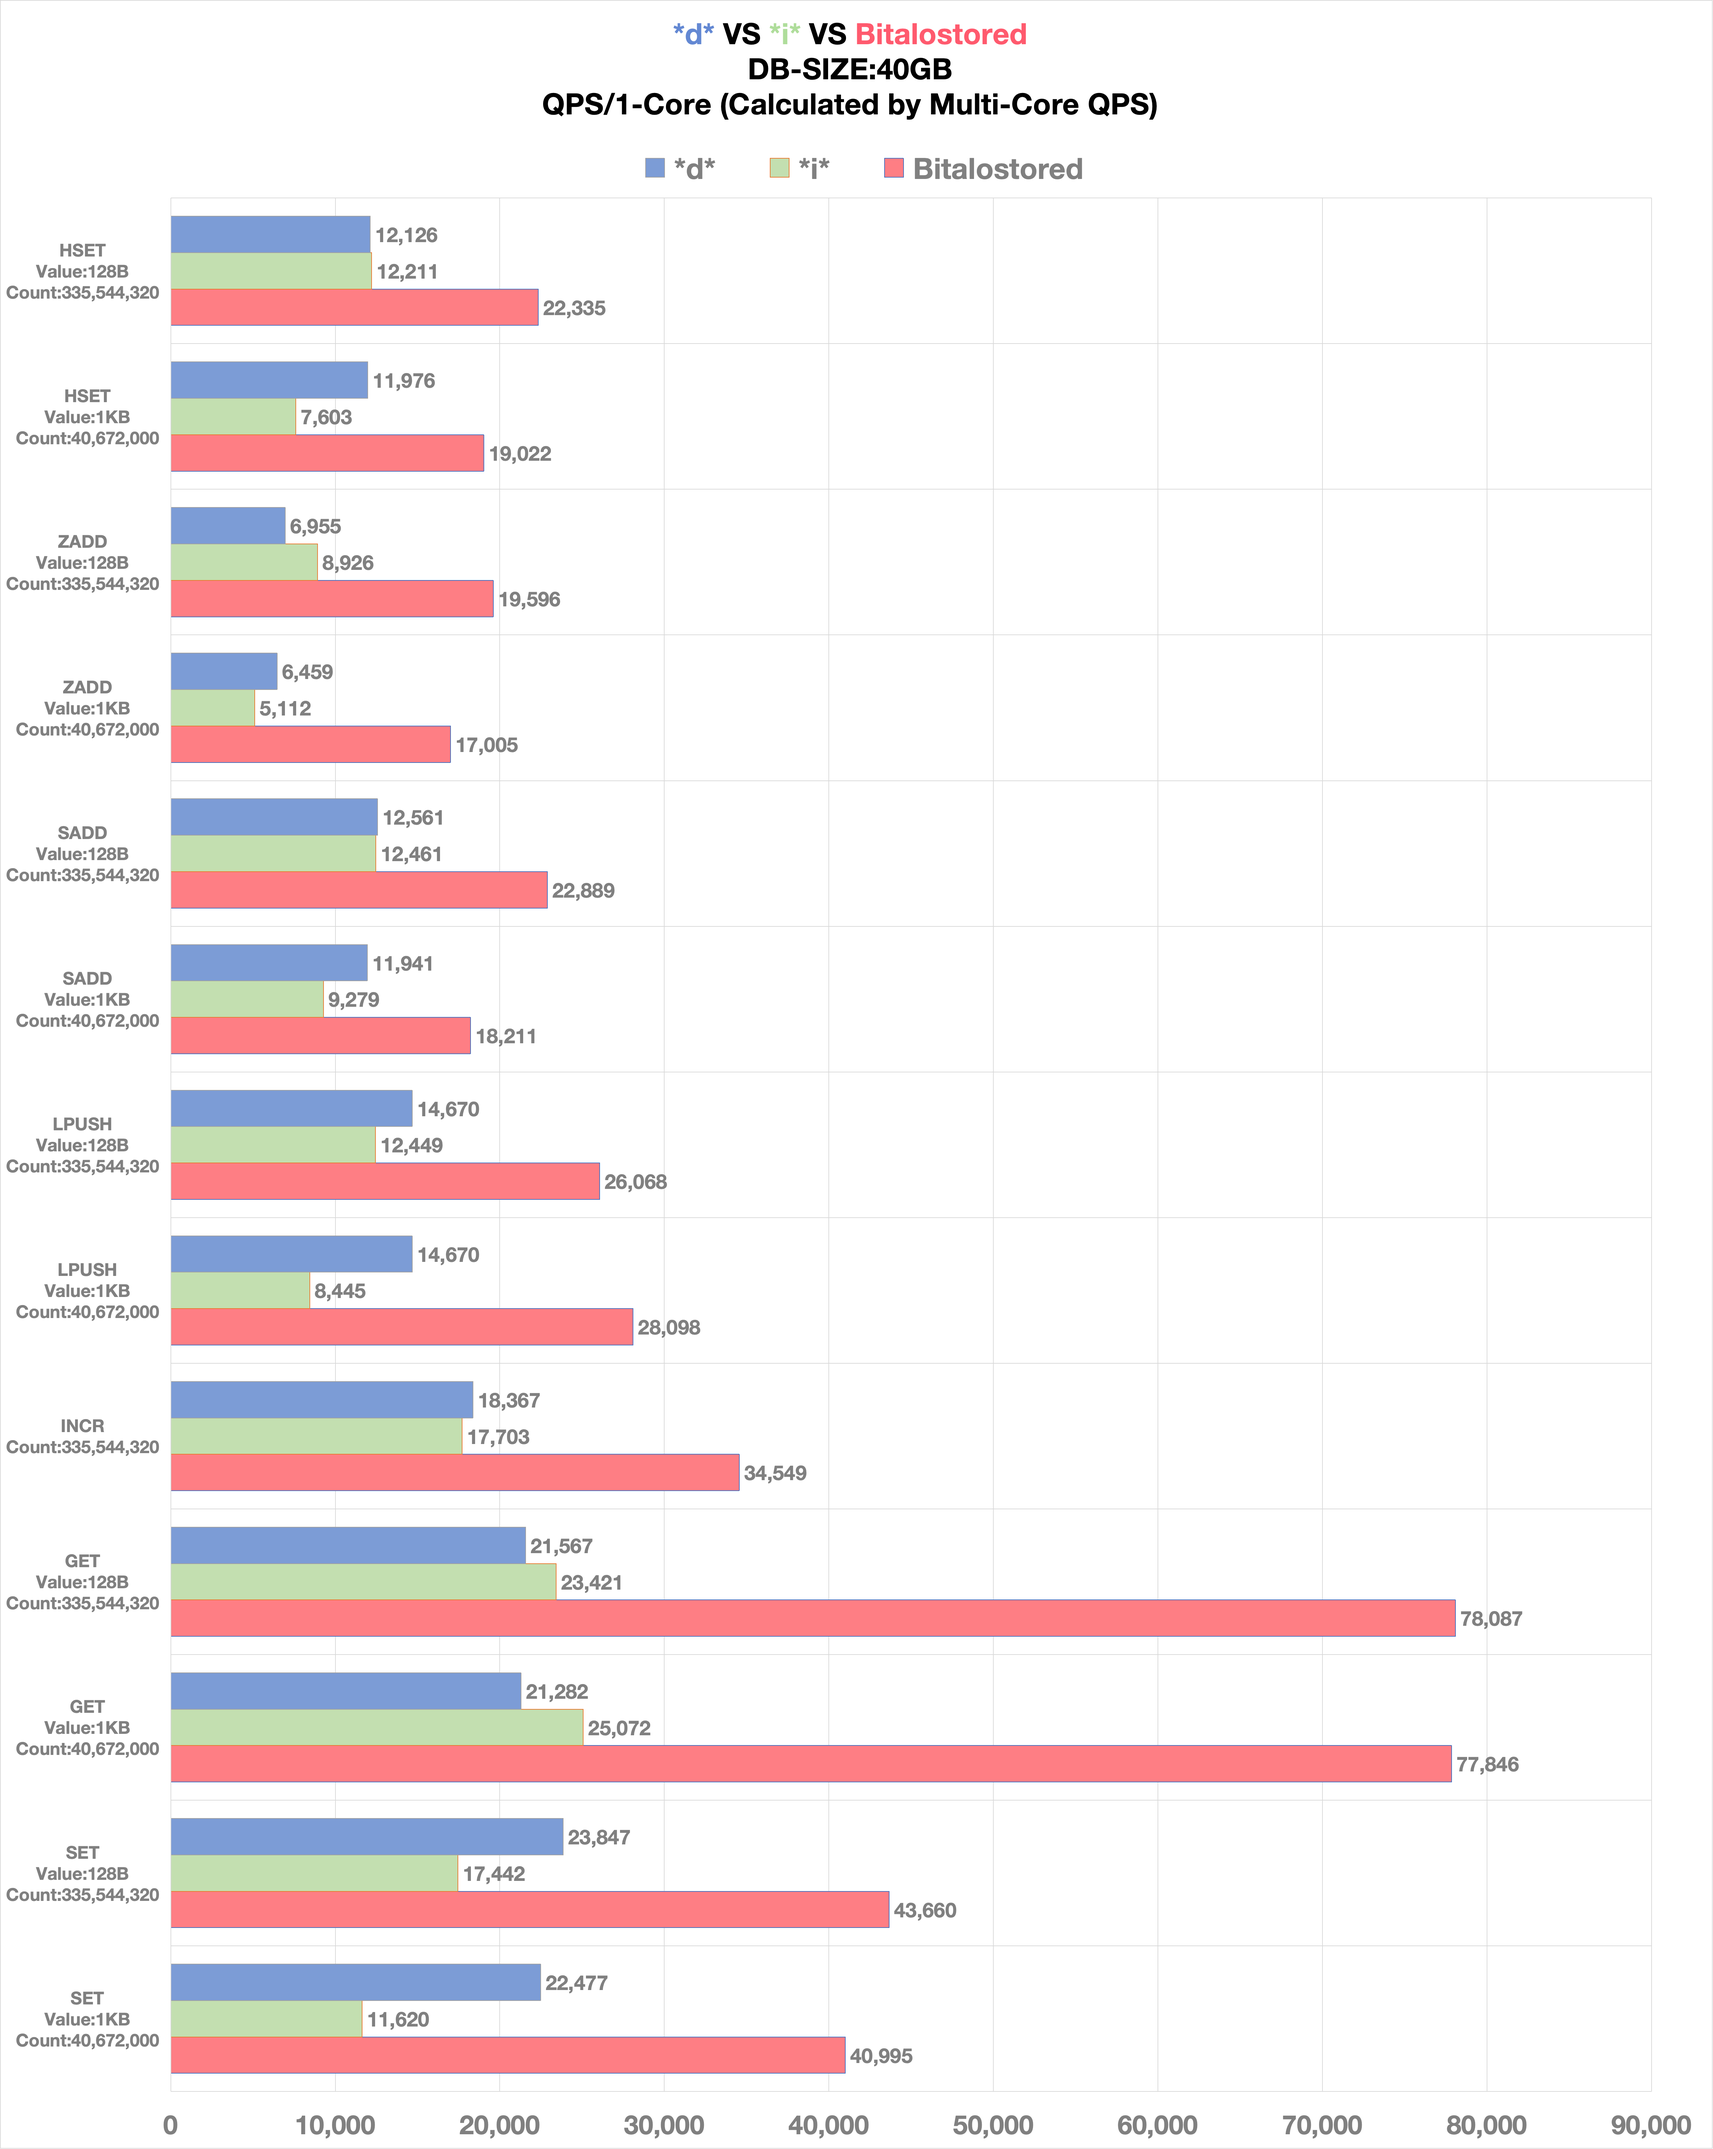
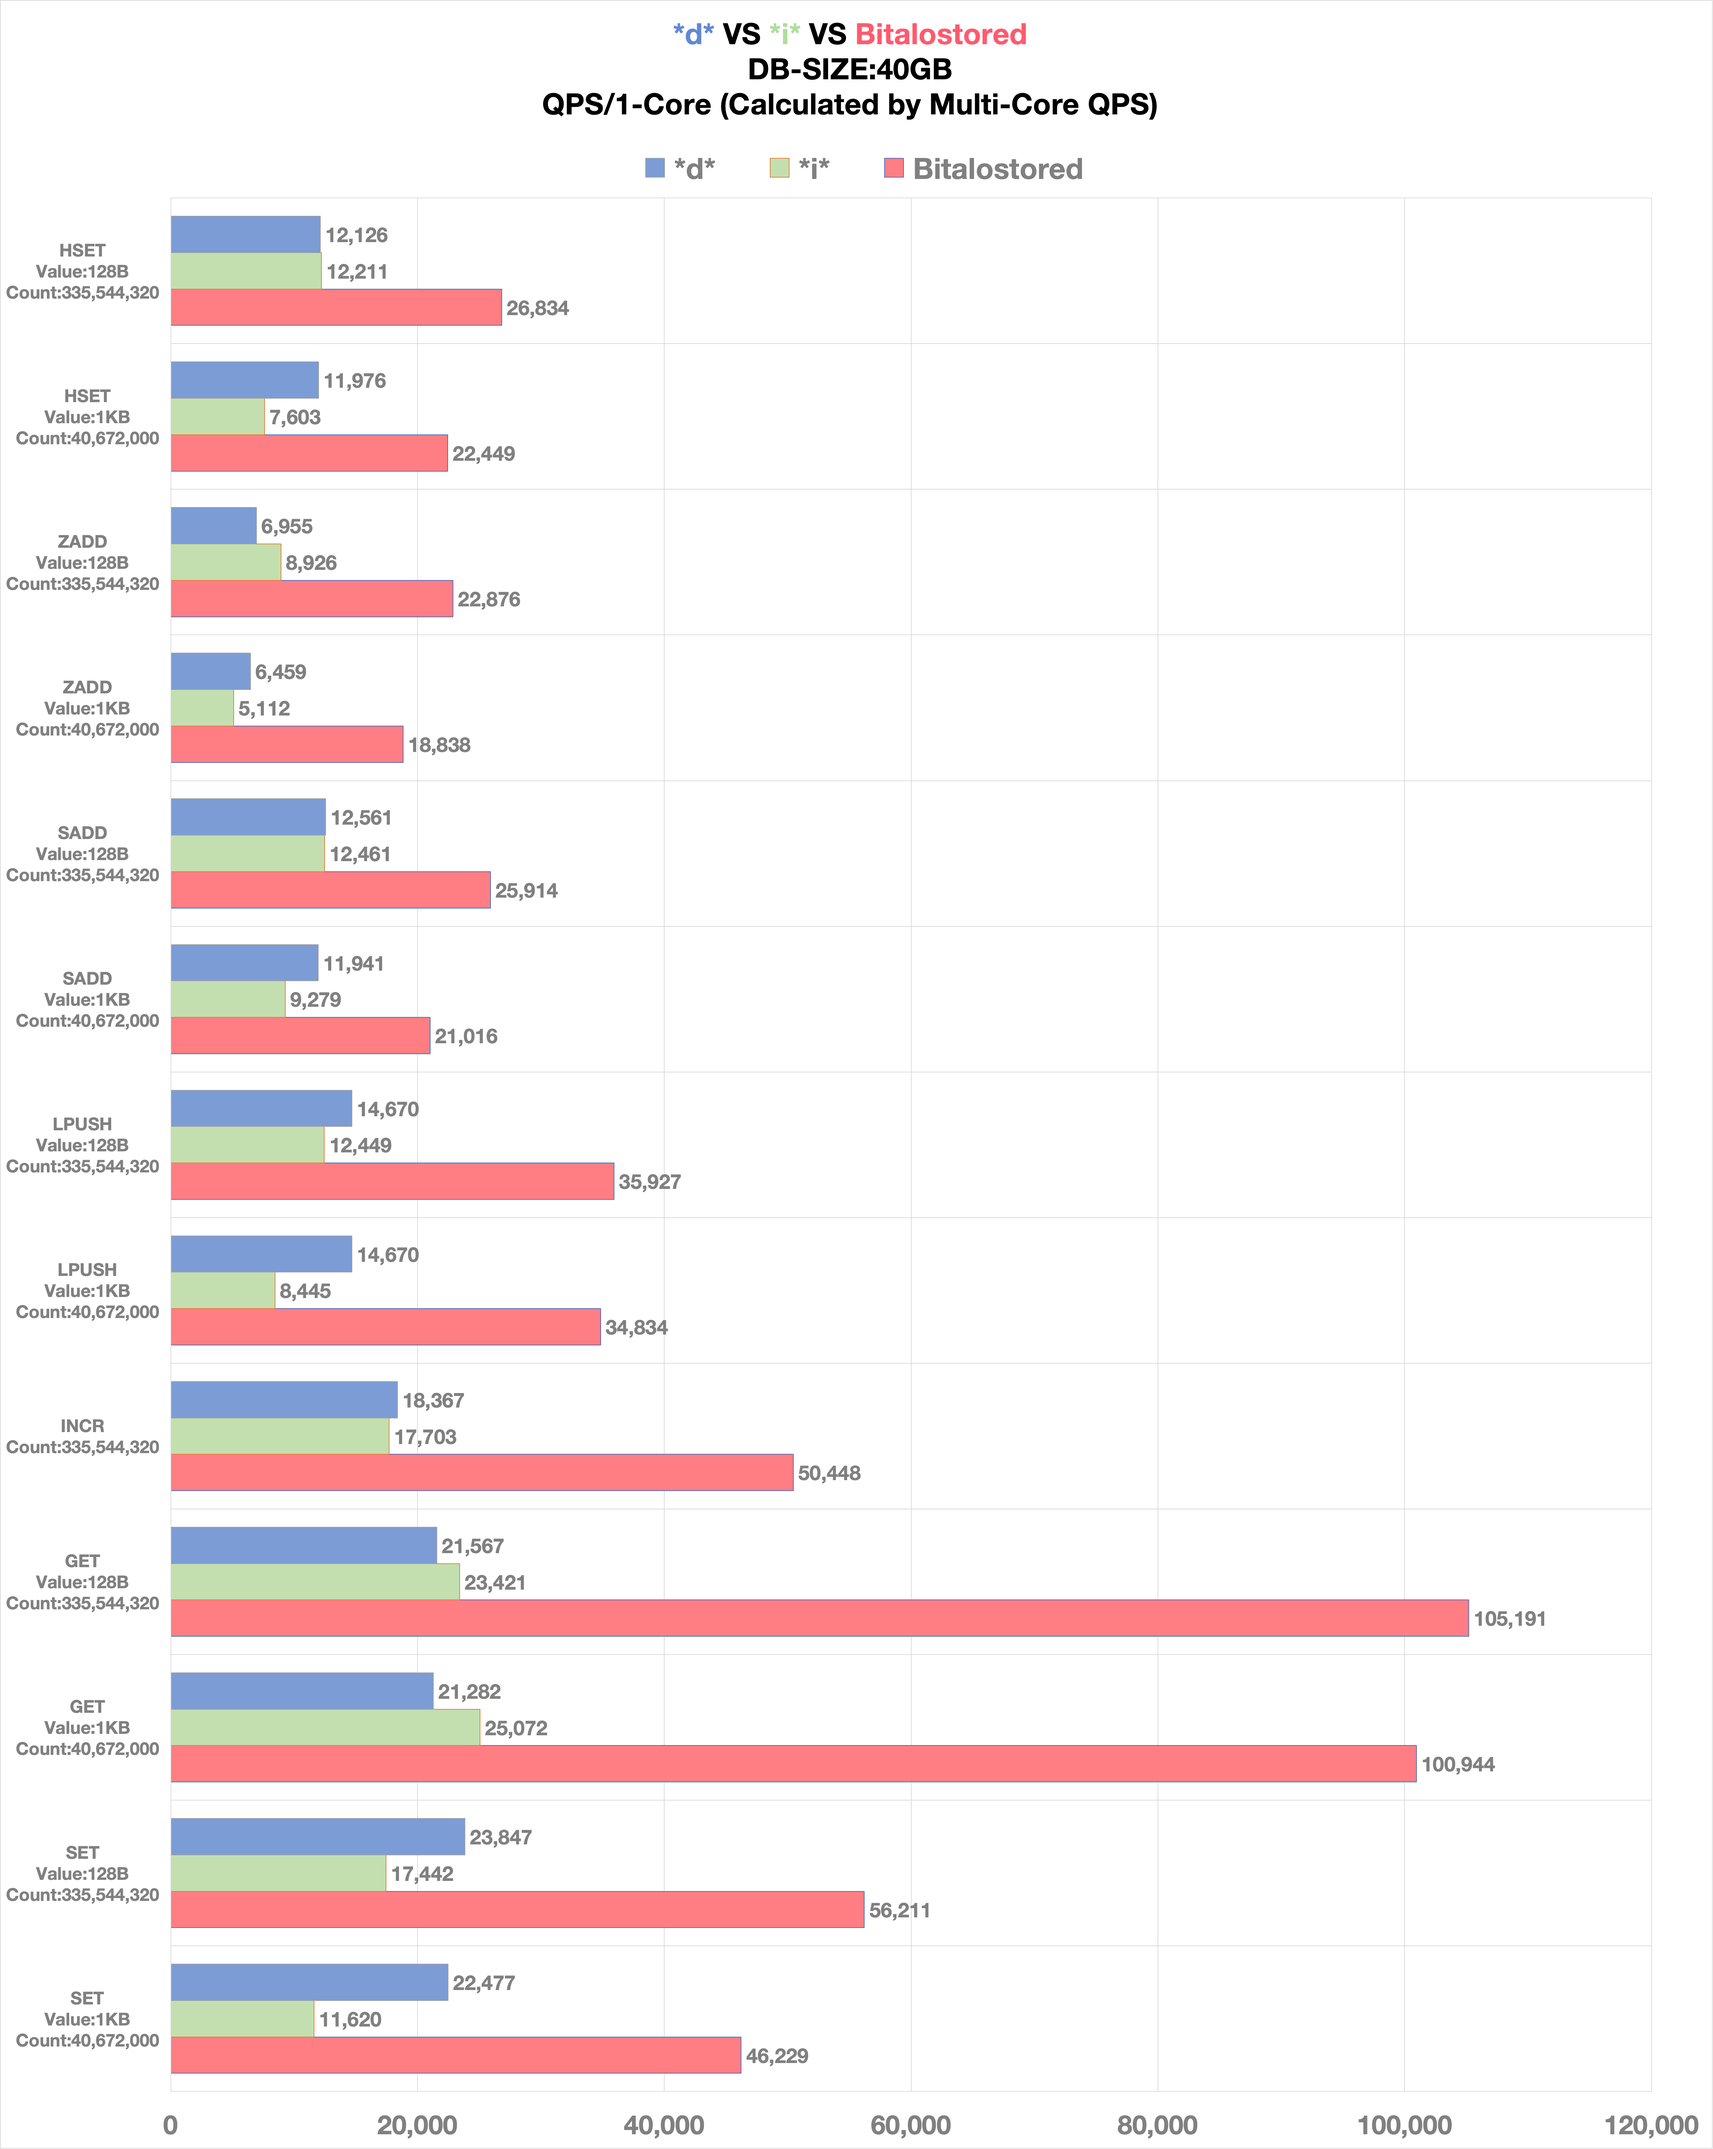
README

diff --git a/README.md b/README.md
@@ -6,7 +6,7 @@
 
 - Bitalostored is a high-performance distributed storage system, core engine based on [bitalosdb](https://github.com/zuoyebang/bitalosdb/blob/main/README.md), compatible with Redis protocol. As an alternative to Redis, it stores data with low-cost hard disk instead of expensive memory, takes full advantage of multi-core and provides excellent single-core performance, which can significantly reduce service costs.
 
-- Bitalostored contains three main projects: dashboard (visual management platform), stored (storage service), and proxy (proxy service). Current open-source version is stable, and provides a complete industrial grade solution. In Zuoyebang company, the stability of Bitalostored has been verified. Hundreds of online clusters are running stably all year round. Now data capacity is 300TB, peak QPS is 20 million, peak network bandwidth is 6000Gbps, and since v1.0 was released in 2019, there have been no online incidents.
+- Bitalostored contains three main projects: dashboard (visual management platform), stored (storage service), and proxy (proxy service). Current open-source version is stable, and provides a complete industrial grade solution. In Zuoyebang company, the stability of Bitalostored has been verified. Now data capacity is 300TB, peak QPS is 22 million, peak network bandwidth is 6000Gbps, and since v1.0 was released in 2019, there have been no online incidents.
 
 ## Team
 
@@ -63,20 +63,20 @@ Disk:   2*3.5TB NVMe SSD
 - Command args: 3 data spec
 
 ```
---data-size=1024 --key-maximum=40672038 -t 8 -c 16 -n 317750 # items=40672000 (8*16*317750)
---data-size=128 --key-maximum=335544320 -t 8 -c 16 -n 2621440 # items=335544320 (8*16*2621440)
+--data-size=1024 --key-maximum=40672038 -t 16 -c 32 -n 317750 # items=40672000 (8*16*317750)
+--data-size=128 --key-maximum=335544320 -t 16 -c 32 -n 2621440 # items=335544320 (8*16*2621440)
 ```
 
 - Command (e.g., --data-size=1024)
 
 ```
-./memtier_benchmark -t 8 -c 16 -s 127.0.0.1 -p xxxx --distinct-client-seed --command="set __key__ __data__" --key-prefix="performance_test_key_prefix_" --key-minimum=1 --key-maximum=40672038 --random-data --data-size=1024 -n 317750
-./memtier_benchmark -t 8 -c 16 -s 127.0.0.1 -p xxxx --distinct-client-seed --command="get __key__" --key-prefix="performance_test_key_prefix_" --key-minimum=1 --key-maximum=40672038 --test-time=300
-./memtier_benchmark -t 8 -c 16 -s 127.0.0.1 -p xxxx --distinct-client-seed --command="incr __key__" --key-prefix="int_" --key-minimum=1 --key-maximum=40672038 --random-data --data-size=1024 -n 317750
-./memtier_benchmark -t 8 -c 16 -s 127.0.0.1 -p xxxx --distinct-client-seed --command="lpush __key__ __data__" --key-prefix="list_" --key-minimum=1 --key-maximum=40672038 --random-data --data-size=1024 -n 317750
-./memtier_benchmark -t 8 -c 16 -s 127.0.0.1 -p xxxx --distinct-client-seed --command="sadd __key__ __data__" --key-prefix="set_" --key-minimum=1 --key-maximum=40672038 --random-data --data-size=1024 -n 317750
-./memtier_benchmark -t 8 -c 16 -s 127.0.0.1 -p xxxx --distinct-client-seed --command="zadd __key__ __key__ __data__" --key-prefix="" --key-minimum=1 --key-maximum=40672038 --random-data --data-size=1024 -n 317750
-./memtier_benchmark -t 8 -c 16 -s 127.0.0.1 -p xxxx --distinct-client-seed --command="hset __key__ __data__ __key__" --key-prefix="hash_" --key-minimum=1 --key-maximum=40672038 --random-data --data-size=1024 -n 317750
+./memtier_benchmark -t 16 -c 32 -s 127.0.0.1 -p xxxx --distinct-client-seed --command="set __key__ __data__" --key-prefix="performance_test_key_prefix_" --key-minimum=1 --key-maximum=40672038 --random-data --data-size=1024 -n 317750
+./memtier_benchmark -t 16 -c 32 -s 127.0.0.1 -p xxxx --distinct-client-seed --command="get __key__" --key-prefix="performance_test_key_prefix_" --key-minimum=1 --key-maximum=40672038 --test-time=300
+./memtier_benchmark -t 16 -c 32 -s 127.0.0.1 -p xxxx --distinct-client-seed --command="incr __key__" --key-prefix="int_" --key-minimum=1 --key-maximum=40672038 --random-data --data-size=1024 -n 317750
+./memtier_benchmark -t 16 -c 32 -s 127.0.0.1 -p xxxx --distinct-client-seed --command="lpush __key__ __data__" --key-prefix="list_" --key-minimum=1 --key-maximum=40672038 --random-data --data-size=1024 -n 317750
+./memtier_benchmark -t 16 -c 32 -s 127.0.0.1 -p xxxx --distinct-client-seed --command="sadd __key__ __data__" --key-prefix="set_" --key-minimum=1 --key-maximum=40672038 --random-data --data-size=1024 -n 317750
+./memtier_benchmark -t 16 -c 32 -s 127.0.0.1 -p xxxx --distinct-client-seed --command="zadd __key__ __key__ __data__" --key-prefix="" --key-minimum=1 --key-maximum=40672038 --random-data --data-size=1024 -n 317750
+./memtier_benchmark -t 16 -c 32 -s 127.0.0.1 -p xxxx --distinct-client-seed --command="hset __key__ __data__ __key__" --key-prefix="hash_" --key-minimum=1 --key-maximum=40672038 --random-data --data-size=1024 -n 317750
 ```
 
 incr is irrelevant to data size, only needs to be tested once.
@@ -111,7 +111,7 @@ Threads:8
 Memtable：512MB
 WAL：enable
 Raftlog：disable
-Cache：2GB~40GB
+Cache：0GB~40GB
 ```
 
 ### Result
@@ -119,10 +119,6 @@ Cache：2GB~40GB
 - QPS ([Horizontal](./docs/benchmark-qps.png))
 
 ![benchmark](./docs/benchmark-qps-vertical.png)
-
-- Latency ([Horizontal](./docs/benchmark-latency.png))
-
-![benchmark](./docs/benchmark-latency-vertical.png)
 
 ## Document
 

diff --git a/README_CN.md b/README_CN.md
@@ -4,7 +4,7 @@
 
 - 高性能分布式存储系统，核心引擎基于[bitalosdb](https://github.com/zuoyebang/bitalosdb/blob/main/README.md)，兼容redis协议；作为redis的替代品，用成本更低的硬盘存储数据，充分发挥多核优势，且单核性能优秀，可大幅降低服务成本。
 
-- 开源版本，集成dashboard（可视化管理平台）、stored（存储服务）、proxy（代理服务）于一体，是完整的工业级解决方案。经历作业帮100+个集群的实践验证，存储300TB数据，峰值QPS：2000万，峰值带宽：6000Gbps；2019年发布v1.0至今线上零事故。
+- 开源版本，集成dashboard（可视化管理平台）、stored（存储服务）、proxy（代理服务）于一体，是完整的工业级解决方案。经历作业帮的实践验证，存储300TB数据，峰值QPS：2200万，峰值带宽：6000Gbps；2019年发布v1.0至今线上零事故。
 
 ## 出品
 
@@ -61,13 +61,13 @@ Disk:   2*3.5TB NVMe SSD
 - 压测命令：--data-size=1024｜128、-n=40672038｜335544320
 
 ```
-./memtier_benchmark -t 8 -c 16 -s 127.0.0.1 -p xxxx --distinct-client-seed --command="set __key__ __data__" --key-prefix="performance_test_key_prefix_" --key-minimum=1 --key-maximum=40672038 --random-data --data-size=1024 -n 317750
-./memtier_benchmark -t 8 -c 16 -s 127.0.0.1 -p xxxx --distinct-client-seed --command="get __key__" --key-prefix="performance_test_key_prefix_" --key-minimum=1 --key-maximum=40672038 --test-time=300
-./memtier_benchmark -t 8 -c 16 -s 127.0.0.1 -p xxxx --distinct-client-seed --command="incr __key__" --key-prefix="int_" --key-minimum=1 --key-maximum=40672038 --random-data --data-size=1024 -n 317750
-./memtier_benchmark -t 8 -c 16 -s 127.0.0.1 -p xxxx --distinct-client-seed --command="lpush __key__ __data__" --key-prefix="list_" --key-minimum=1 --key-maximum=40672038 --random-data --data-size=1024 -n 317750
-./memtier_benchmark -t 8 -c 16 -s 127.0.0.1 -p xxxx --distinct-client-seed --command="sadd __key__ __data__" --key-prefix="set_" --key-minimum=1 --key-maximum=40672038 --random-data --data-size=1024 -n 317750
-./memtier_benchmark -t 8 -c 16 -s 127.0.0.1 -p xxxx --distinct-client-seed --command="zadd __key__ __key__ __data__" --key-prefix="" --key-minimum=1 --key-maximum=40672038 --random-data --data-size=1024 -n 317750
-./memtier_benchmark -t 8 -c 16 -s 127.0.0.1 -p xxxx --distinct-client-seed --command="hset __key__ __data__ __key__" --key-prefix="hash_" --key-minimum=1 --key-maximum=40672038 --random-data --data-size=1024 -n 317750
+./memtier_benchmark -t 16 -c 32 -s 127.0.0.1 -p xxxx --distinct-client-seed --command="set __key__ __data__" --key-prefix="performance_test_key_prefix_" --key-minimum=1 --key-maximum=40672038 --random-data --data-size=1024 -n 317750
+./memtier_benchmark -t 16 -c 32 -s 127.0.0.1 -p xxxx --distinct-client-seed --command="get __key__" --key-prefix="performance_test_key_prefix_" --key-minimum=1 --key-maximum=40672038 --test-time=300
+./memtier_benchmark -t 16 -c 32 -s 127.0.0.1 -p xxxx --distinct-client-seed --command="incr __key__" --key-prefix="int_" --key-minimum=1 --key-maximum=40672038 --random-data --data-size=1024 -n 317750
+./memtier_benchmark -t 16 -c 32 -s 127.0.0.1 -p xxxx --distinct-client-seed --command="lpush __key__ __data__" --key-prefix="list_" --key-minimum=1 --key-maximum=40672038 --random-data --data-size=1024 -n 317750
+./memtier_benchmark -t 16 -c 32 -s 127.0.0.1 -p xxxx --distinct-client-seed --command="sadd __key__ __data__" --key-prefix="set_" --key-minimum=1 --key-maximum=40672038 --random-data --data-size=1024 -n 317750
+./memtier_benchmark -t 16 -c 32 -s 127.0.0.1 -p xxxx --distinct-client-seed --command="zadd __key__ __key__ __data__" --key-prefix="" --key-minimum=1 --key-maximum=40672038 --random-data --data-size=1024 -n 317750
+./memtier_benchmark -t 16 -c 32 -s 127.0.0.1 -p xxxx --distinct-client-seed --command="hset __key__ __data__ __key__" --key-prefix="hash_" --key-minimum=1 --key-maximum=40672038 --random-data --data-size=1024 -n 317750
 ```
 
 ### 数据
@@ -99,7 +99,7 @@ Threads:8
 Memtable：512MB
 WAL：enable
 Raftlog：disable
-Cache：2GB~40GB
+Cache：0GB~40GB
 ```
 
 ### 结果
@@ -107,10 +107,6 @@ Cache：2GB~40GB
 - QPS ([Horizontal](./docs/benchmark-qps.png))
 
 ![benchmark](./docs/benchmark-qps-vertical.png)
-
-- Latency ([Horizontal](./docs/benchmark-latency.png))
-
-![benchmark](./docs/benchmark-latency-vertical.png)
 
 ## 文档
 
